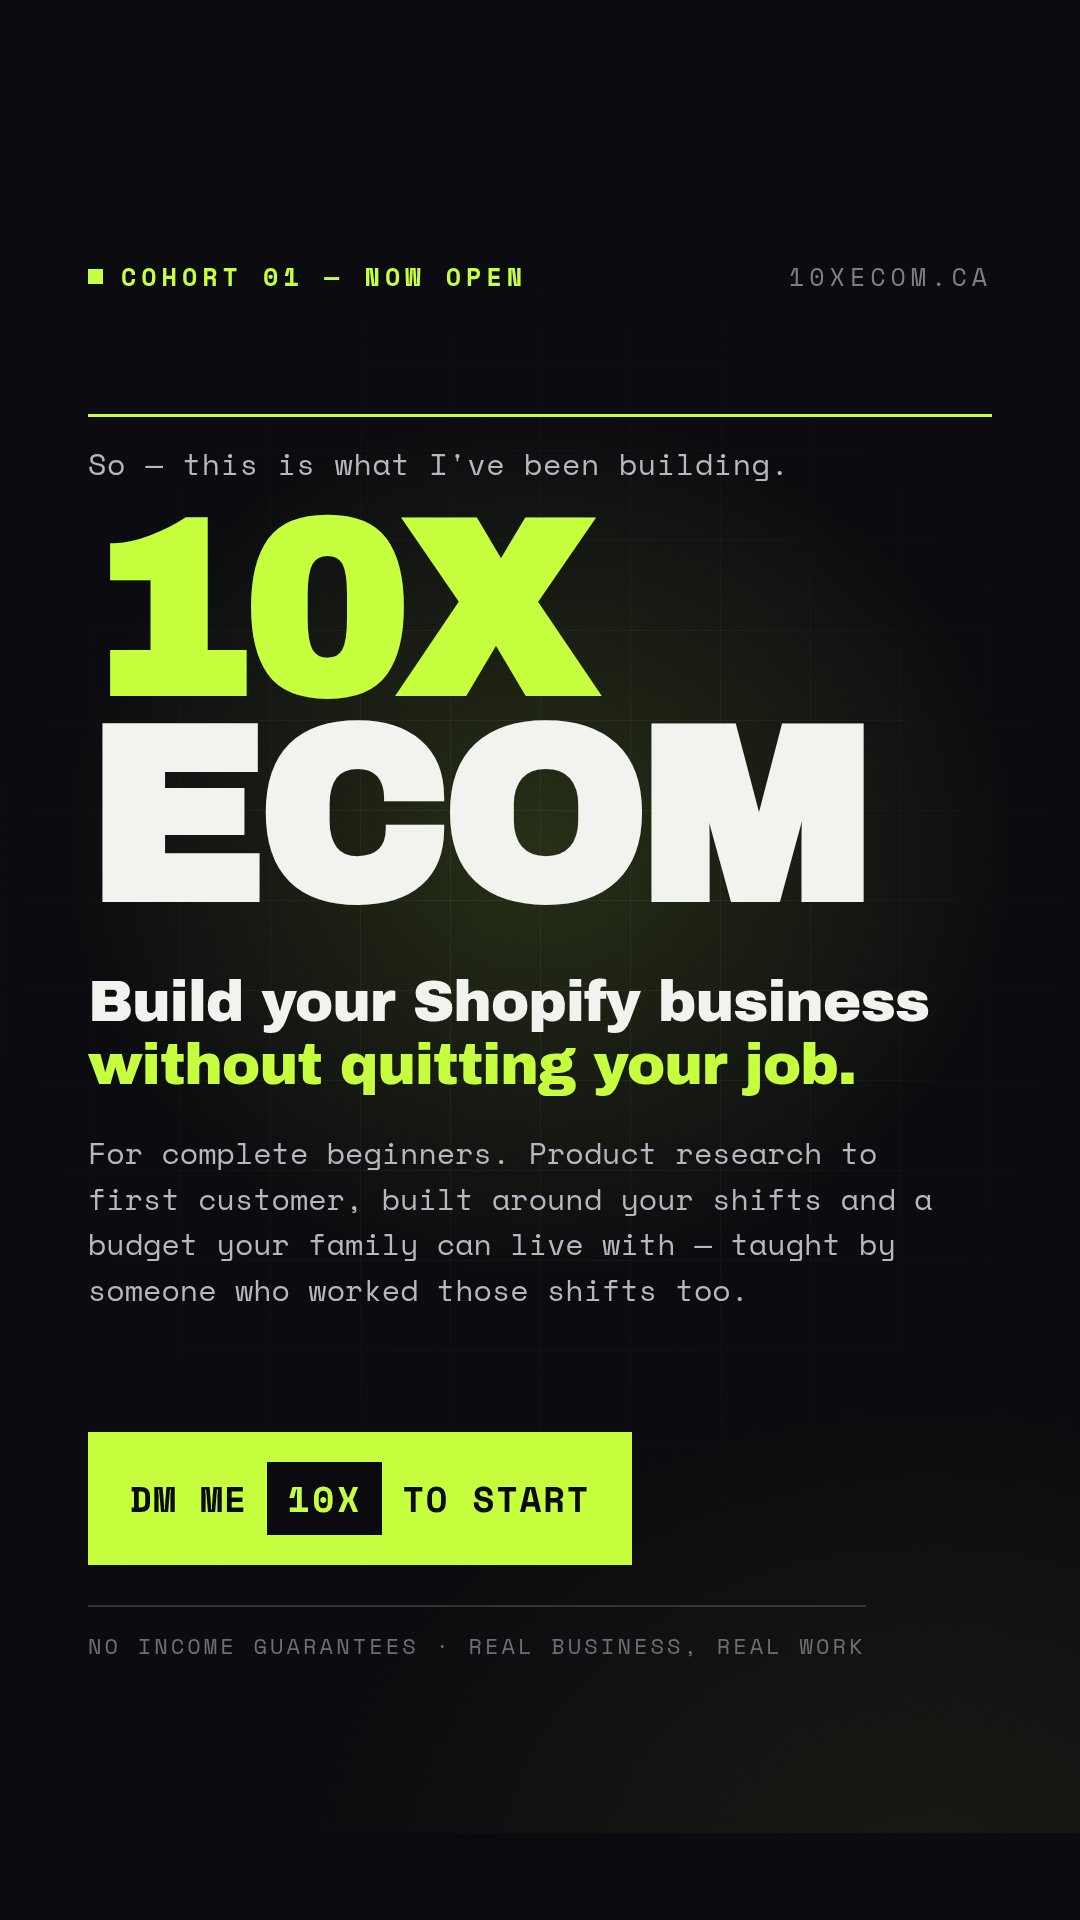
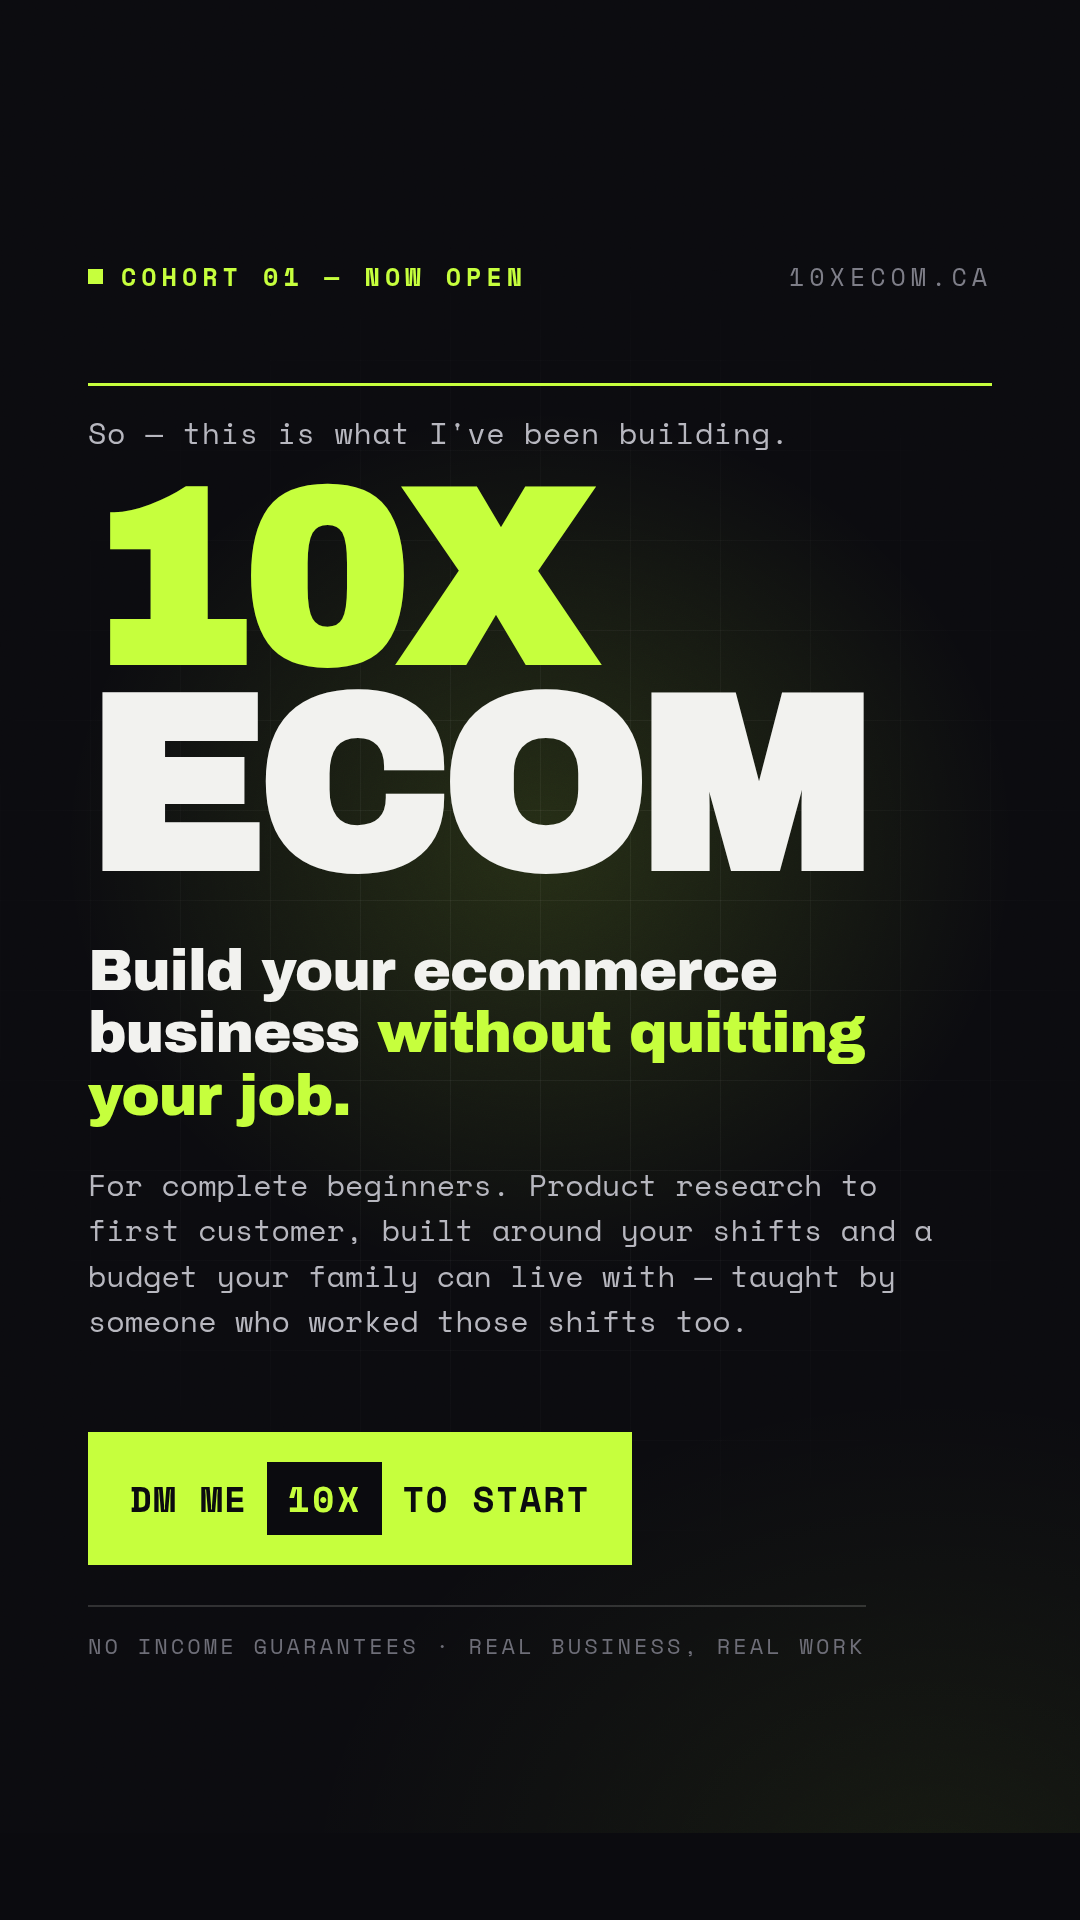
design: say ecommerce rather than Shopify on the reveal
Widens the promise past one platform and matches the brand name. Chosen over
"dropshipping", which is the dominant term in guru scam marketing and carries
the wrong association for an audience defined by its wariness of scams.

Claude-Session: https://claude.ai/code/session_01JScjDvyAFXuwqeNj6asjp6

Changed region(s): [[0.0611, 0.2188, 0.8556, 0.6875]]

diff --git a/design/10xecom-ig-story/src/Reveal.dc.html b/design/10xecom-ig-story/src/Reveal.dc.html
@@ -43,7 +43,7 @@
     <div class="frame">
       <p class="callback">So — this is what I've been building.</p>
       <h1 class="mark"><span class="l1">10X</span><span class="l2">ECOM</span></h1>
-      <p class="promise">Build your Shopify business <em>without quitting your job.</em></p>
+      <p class="promise">Build your ecommerce business <em>without quitting your job.</em></p>
       <p class="para">For complete beginners. Product research to first customer, built around your shifts and a budget your family can live with — taught by someone who worked those shifts too.</p>
     </div>
 
